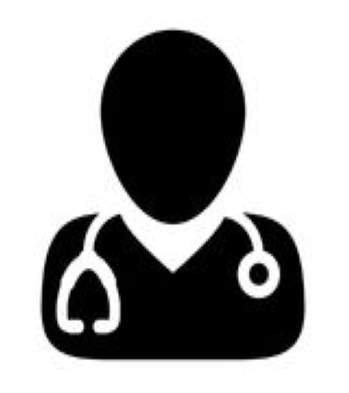
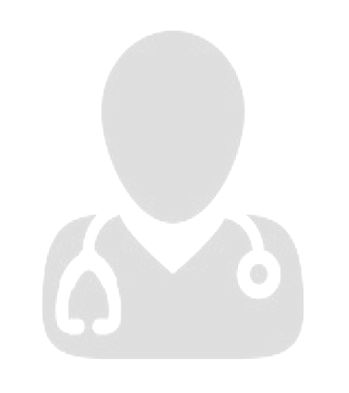
коммит

diff --git a/views/layouts/main.php b/views/layouts/main.php
@@ -30,13 +30,13 @@ AppAsset::register($this);
 <header class="header-a">
     <div class="container">
         <div class="row">
-            <div class="col-sm-6"><img src="/images/logo100.jpg"></div>
+            <div class="col-sm-6"><img src="/images/tmp_logo100.jpg"></div> <?php //ToDO obf ?>
             <div class="col-sm-6 header-info">
-                <div class="col-md-6 head-phone-number">+7(915)480-03-03</div>
+                <div class="col-md-6 head-phone-number" style="color:#141f93">+7(800)123-45-67</div> <?php //ToDO obf ?>
                 <div class="col-md-6">
                     <?= Html::dropDownList("place", null,
                         [
-                            "" => "Выберите вашу клинику",
+                            "" => "Выберите ваше подразделение",//ToDO obf
                             "Московская область" => [
                                 "1" => "Руза",
                                 "2" => "Тучково",
@@ -75,7 +75,7 @@ AppAsset::register($this);
     echo Nav::widget([
         'options' => ['class' => 'navbar-nav navbar-right'],
         'items' => [
-            ['label' => 'Доктора', 'url' => ['/persons/index']],
+            ['label' => 'Сотрудники', 'url' => ['/persons/index']],
             ['label' => 'Учреждения', 'url' => ['/institutions/index']],
             ['label' => 'Home', 'url' => ['/site/index']],
             ['label' => 'About', 'url' => ['/site/about']],

diff --git a/controllers/SiteController.php b/controllers/SiteController.php
@@ -9,6 +9,7 @@ use yii\web\Response;
 use yii\filters\VerbFilter;
 use app\models\LoginForm;
 use app\models\ContactForm;
+use app\models\Sheduler;
 
 class SiteController extends Controller
 {
@@ -180,6 +181,31 @@ class SiteController extends Controller
 
 
         return json_encode($f);
+    }
+
+    public function actionParce()
+    {
+        $s=Sheduler::parceFile("r.json");
+        $r="<table>";
+        foreach ($s->subdivisions as $subdiv_hash=>$subdiv){
+            foreach ($subdiv->workplaces as $workplace_hash=>$workplace){
+                foreach ($workplace->schedules as $schedule_hash=>$schedule) {
+                    $r .= "<tr><td>" . $subdiv_hash . "</td><td>" . $subdiv->name . "</td><td>" . $workplace_hash . "</td><td>" . $workplace->name . "</td><td>" . $schedule_hash . "</td><td>" . $schedule->name . "</td></tr>";
+                    $sh=new Sheduler();
+                    $sh->hash=$schedule_hash;
+                    $sh->person_name=$schedule->name;
+                    $sh->workplace_hash=$workplace_hash;
+                    $sh->workplace_name=$workplace->name;
+                    $sh->subdivision_hash=$subdiv_hash;
+                    $sh->subdivision_name=$subdiv->name;
+                    $sh->save();
+                }
+            }
+        }
+        $r.="</table>";
+
+
+        return $r;
     }
 
 

diff --git a/views/persons/view.php b/views/persons/view.php
@@ -23,7 +23,7 @@ $this->params['breadcrumbs'][] = $this->title;
                  'title' => mb_convert_case($model->traits["специальность"][0]->description, MB_CASE_TITLE) . " " . $model->fullname
             ]) ?>
         </div>
-        <div class="col-sm-8">
+        <div class="col-sm-8" style="color:lightgrey;<?php //ToDo?>">
             <h1><?= $model->fullname ?></h1>
             <h2>
                 <?php

diff --git a/models/Sheduler.php b/models/Sheduler.php
@@ -1,0 +1,22 @@
+<?php
+/**
+ * Created by PhpStorm.
+ * User: a.ivanitsky
+ * Date: 15.01.2019
+ * Time: 17:31
+ */
+
+namespace app\models;
+
+
+use app\models\Generated\ShedulersGenerated;
+
+class Sheduler extends ShedulersGenerated
+{
+    static public function parceFile($fileName)
+    {
+        $s=file_get_contents($fileName);
+        $o=json_decode($s);
+        return $o;
+    }
+}

diff --git a/config/db.php b/config/db.php
@@ -4,7 +4,7 @@ return [
     'class' => 'yii\db\Connection',
     'dsn' => 'mysql:host=localhost;dbname=yii',
     'username' => 'root',
-    'password' => '',
+    'password' => 'root',
     'charset' => 'utf8',
     'tablePrefix' => 'sd_',
 
